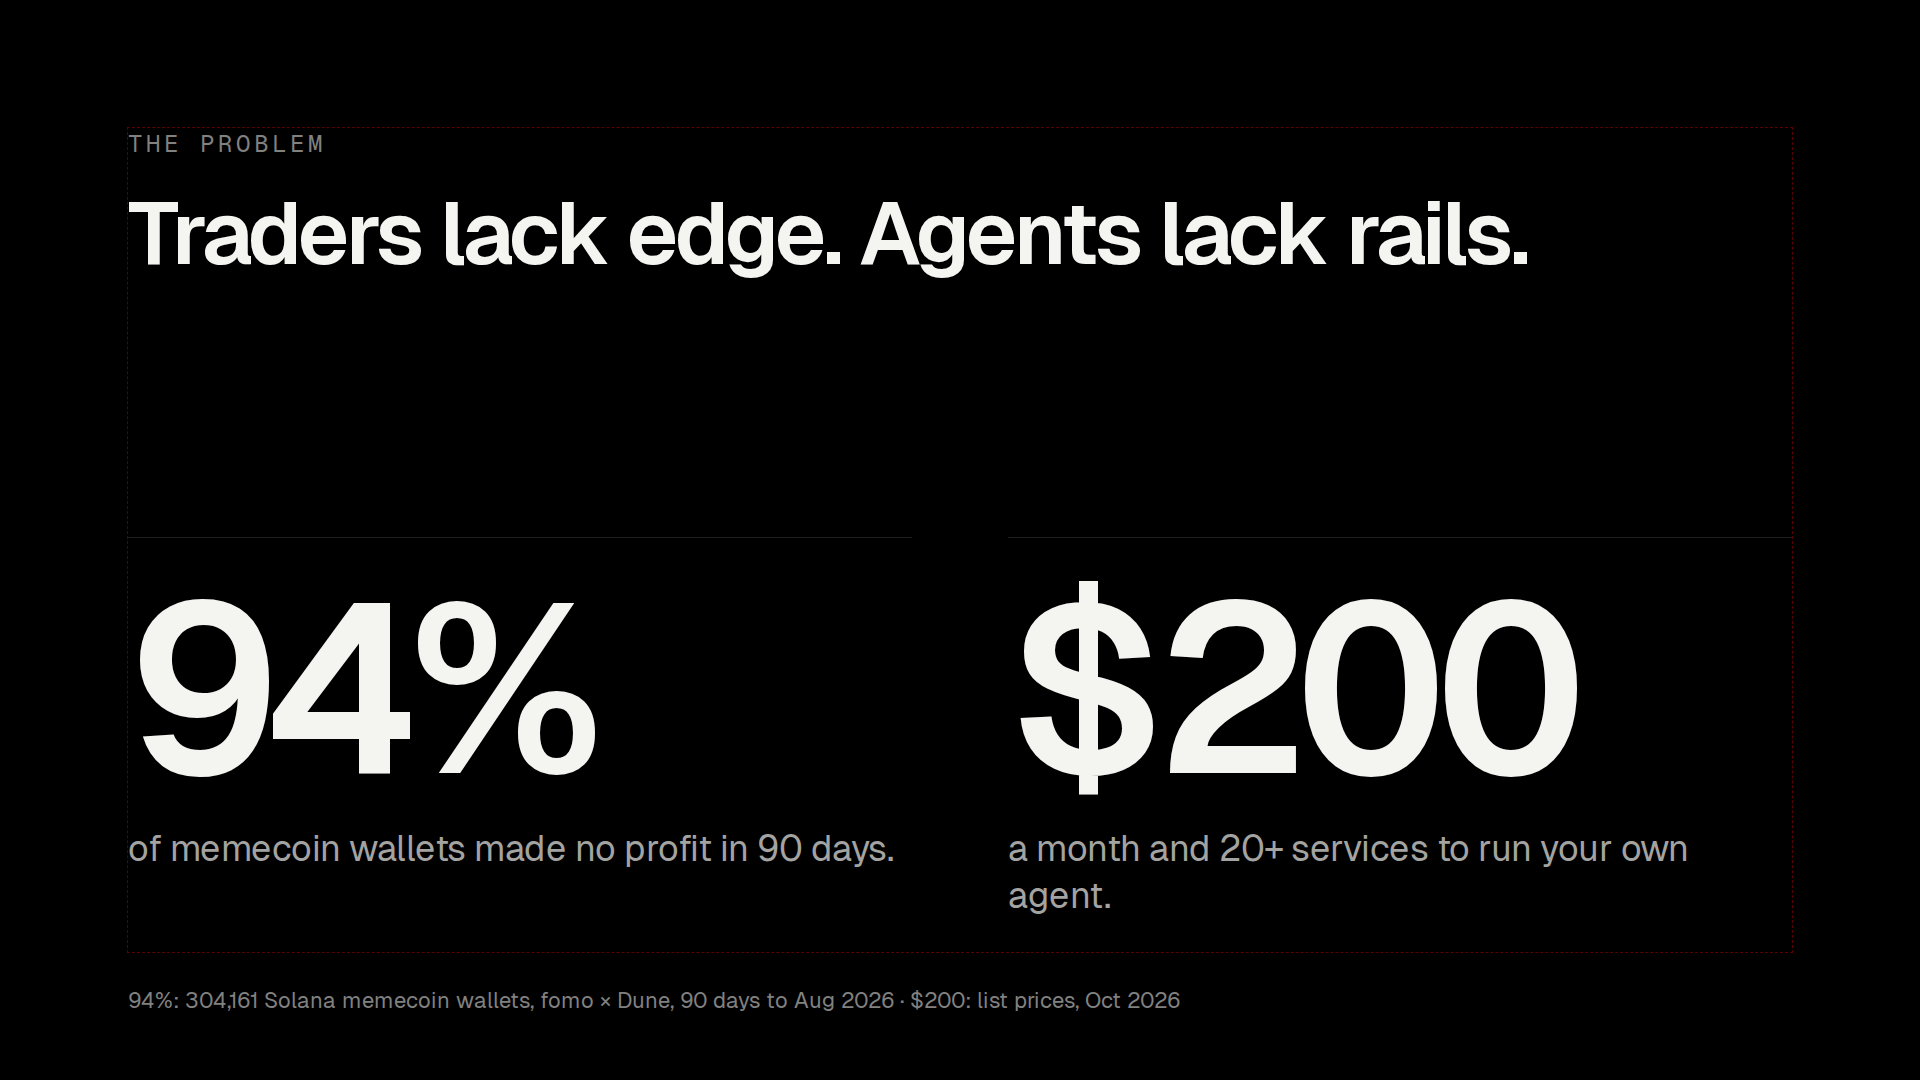
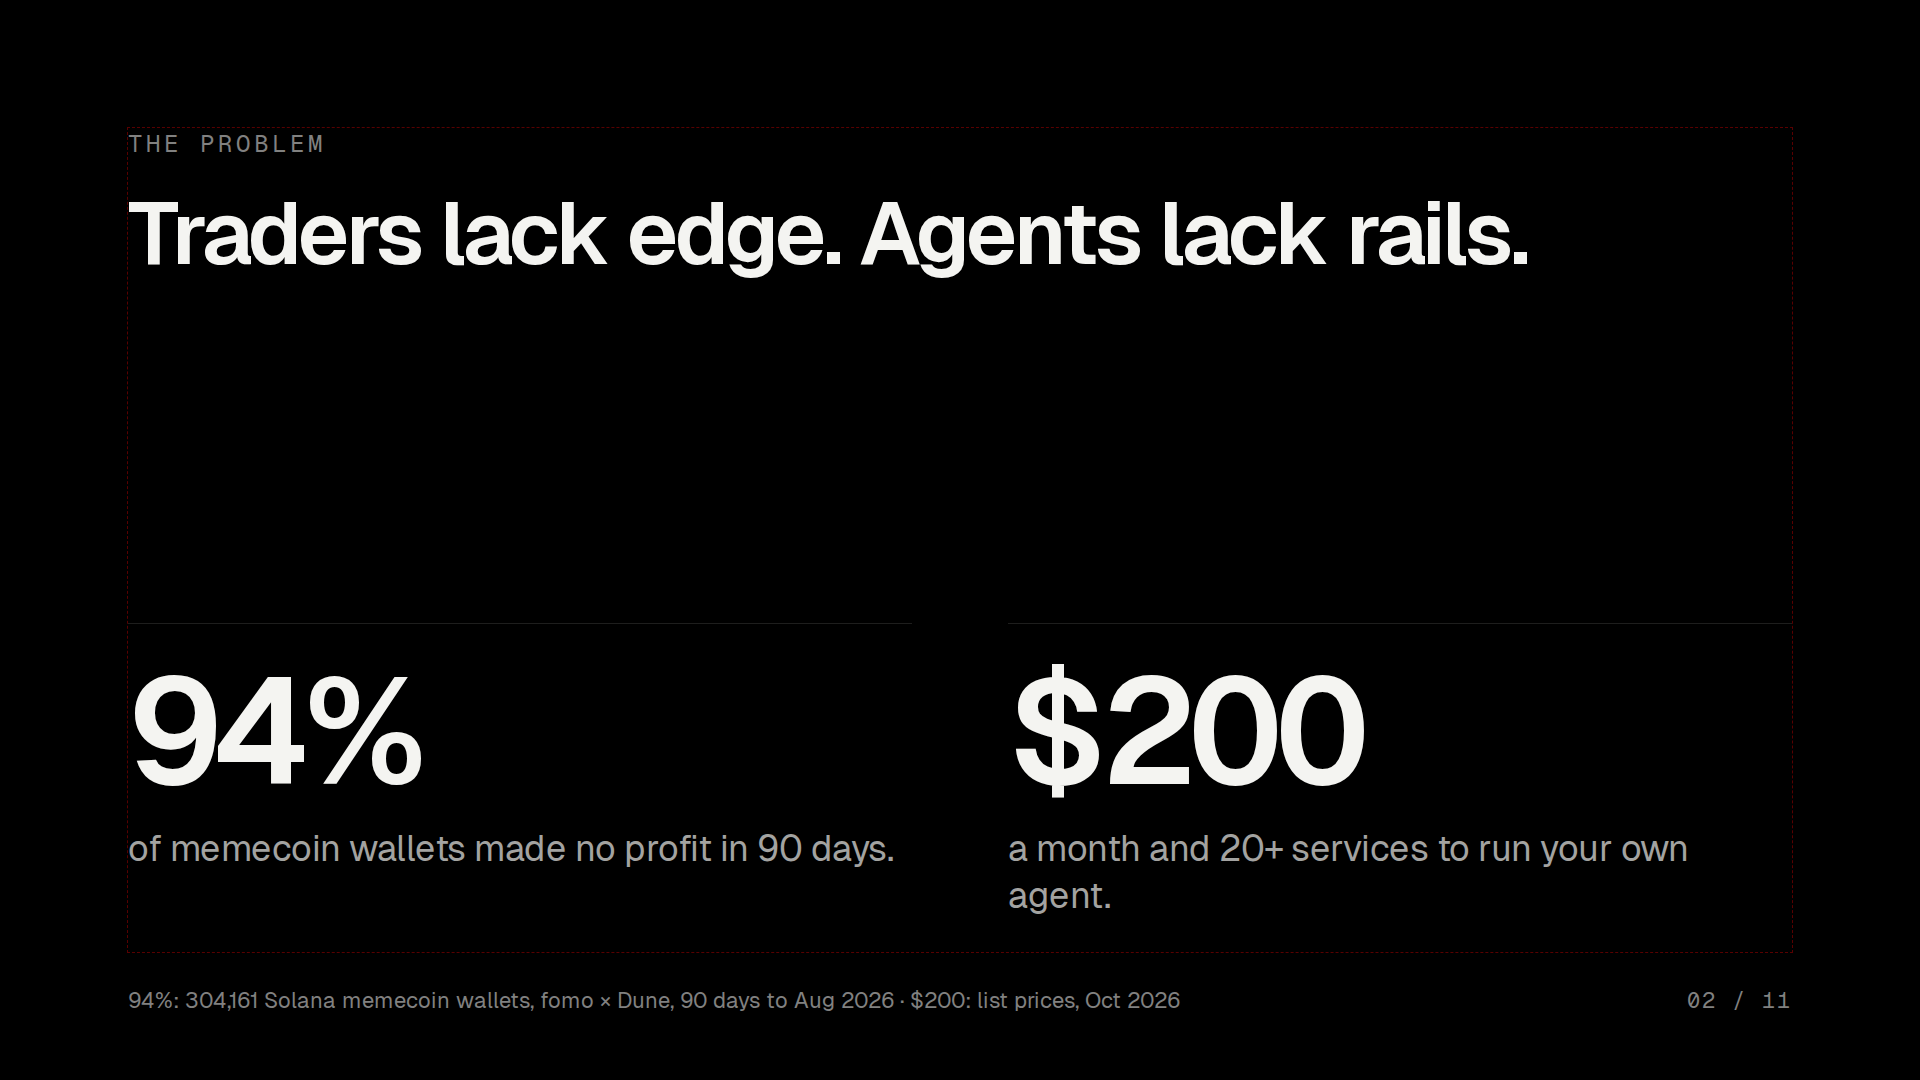
docs(pitch): consistent big-number size, page numbers bottom right, overview sheet
Claude-Session: https://claude.ai/code/session_01C63X7bmiYFRUvieQLSha7b

Changed region(s): [[0.5312, 0.5194, 0.8438, 0.7333], [0.0625, 0.55, 0.3125, 0.7333], [0.875, 0.9167, 0.9062, 0.9472]]

diff --git a/docs/pitch/deck/build_simple_slides.py b/docs/pitch/deck/build_simple_slides.py
@@ -33,12 +33,12 @@ def bigs(items, size):
 SLIDES = {
     "problem": ("The problem", "Traders lack edge. Agents lack rails.",
                 bigs([("94%", "of memecoin wallets made no profit in 90 days."),
-                      ("$200", "a month and 20+ services to run your own agent.")], 240),
+                      ("$200", "a month and 20+ services to run your own agent.")], 150),
                 "94%: 304,161 Solana memecoin wallets, fomo × Dune, 90 days to Aug 2026 · $200: list prices, Oct 2026"),
     "solution": ("The solution", "Tocker is the edge and the rails.",
                  bigs([("1 line", "of English launches your agent."),
                        ("10", "hard gates refuse unsafe buys."),
-                       ("24/7", "hosted. Nothing to wire.")], 170), ""),
+                       ("24/7", "hosted. Nothing to wire.")], 150), ""),
     "edge": ("The edge", "Edge starts with not losing.",
              bigs([("76%", "of new Solana tokens were rugs. Our gates refuse them."),
                    ("2–7¢", "per token for the data your thesis needs."),
@@ -46,12 +46,12 @@ SLIDES = {
              "76%: SolRugDetector, H1 2025 · 0 of 30: Aster Human vs AI, Season 1, Jan 2026 · 2–7¢: Tocker data registry"),
     "business": ("Business model", "Traders pay 1%. We charge 0.5%.",
                  bigs([("$940M", "paid to Solana trading bots in 2025."),
-                       ("0.5%", "our fee per trade. Live today.")], 240),
+                       ("0.5%", "our fee per trade. Live today.")], 150),
                  "Solana Foundation 2025 recap (Blockworks) · 1% bots: Photon, Trojan, BonkBot"),
     "traction": ("Traction", "11 users. 334 gets us to $20K MRR.",
                  bigs([("11", "users in open beta."),
                        ("~$2", "in fees per user, per day."),
-                       ("334", "users at $60 a month = $20K MRR.")], 200),
+                       ("334", "users × $60 a month = $20K.")], 150),
                  ""),
 }
 

diff --git a/docs/pitch/deck/add_page_numbers.py b/docs/pitch/deck/add_page_numbers.py
@@ -1,0 +1,19 @@
+"""Add a page number (bottom right) to every slide but the cover, and keep pinned footers clear of it.
+Run: python3 -I pagenum.py <deck project dir>"""
+import json, re, sys
+root = sys.argv[1]
+order = json.load(open(f"{root}/deck.json"))["order"]
+total = len(order)
+for i, sid in enumerate(order, 1):
+    p = f"{root}/slides/{sid}.html"
+    s = open(p).read()
+    s = re.sub(r'\s*<p style="position:absolute; right:128px; bottom:64px;[^"]*">\d\d / \d\d</p>', "", s)
+    # footers: pinned at left:128 bottom:64 — narrow them so they never run under the number
+    s = re.sub(r'(<p style="position:absolute; ?(?:bottom:64px; ?left:128px|left:128px; ?bottom:64px); ?width:)1664px', r"\g<1>1440px", s)
+    if sid != "cover":
+        num = (f'<p style="position:absolute; right:128px; bottom:64px; font-family:\'Geist Mono\', \'Courier New\', monospace; '
+               f'font-size:22px; line-height:1.35; letter-spacing:2px; white-space:nowrap; font-variant-numeric:tabular-nums; '
+               f'color:#818180">{i:02d} / {total:02d}</p>')
+        s = s.replace("<aside>", num + "\n  <aside>", 1)
+    open(p, "w").write(s)
+    print(sid, i, "footer" if "width:1440px" in s else "-")

diff --git a/docs/pitch/deck/build_competition.py b/docs/pitch/deck/build_competition.py
@@ -25,7 +25,7 @@ NOTE = ("It's a crowded space, and these are good teams, but each covers a piece
         "with execution. Fere runs preset bots you can't configure. Senpi and Minara run perps strategies on bundled data, "
         "with no rug veto. Tocker does all five: it runs on its own 24/7, under your rules and guardrails, vetoes rugs in "
         "code, picks and pays for its data over x402, and pays for its own model in USDC.")
-FOOT = "● yes · ○ partly or opt-in · — no or not found · Rivals' docs, GitHub and X, Oct 2026 (research/26) · Tocker's USDC model payments are switched on per account"
+FOOT = "● yes · ○ partly or opt-in · — no · Rivals: docs, GitHub, X, Oct 2026 · Tocker: USDC AI payments on per account"
 
 
 def mark(m, strong=False):
